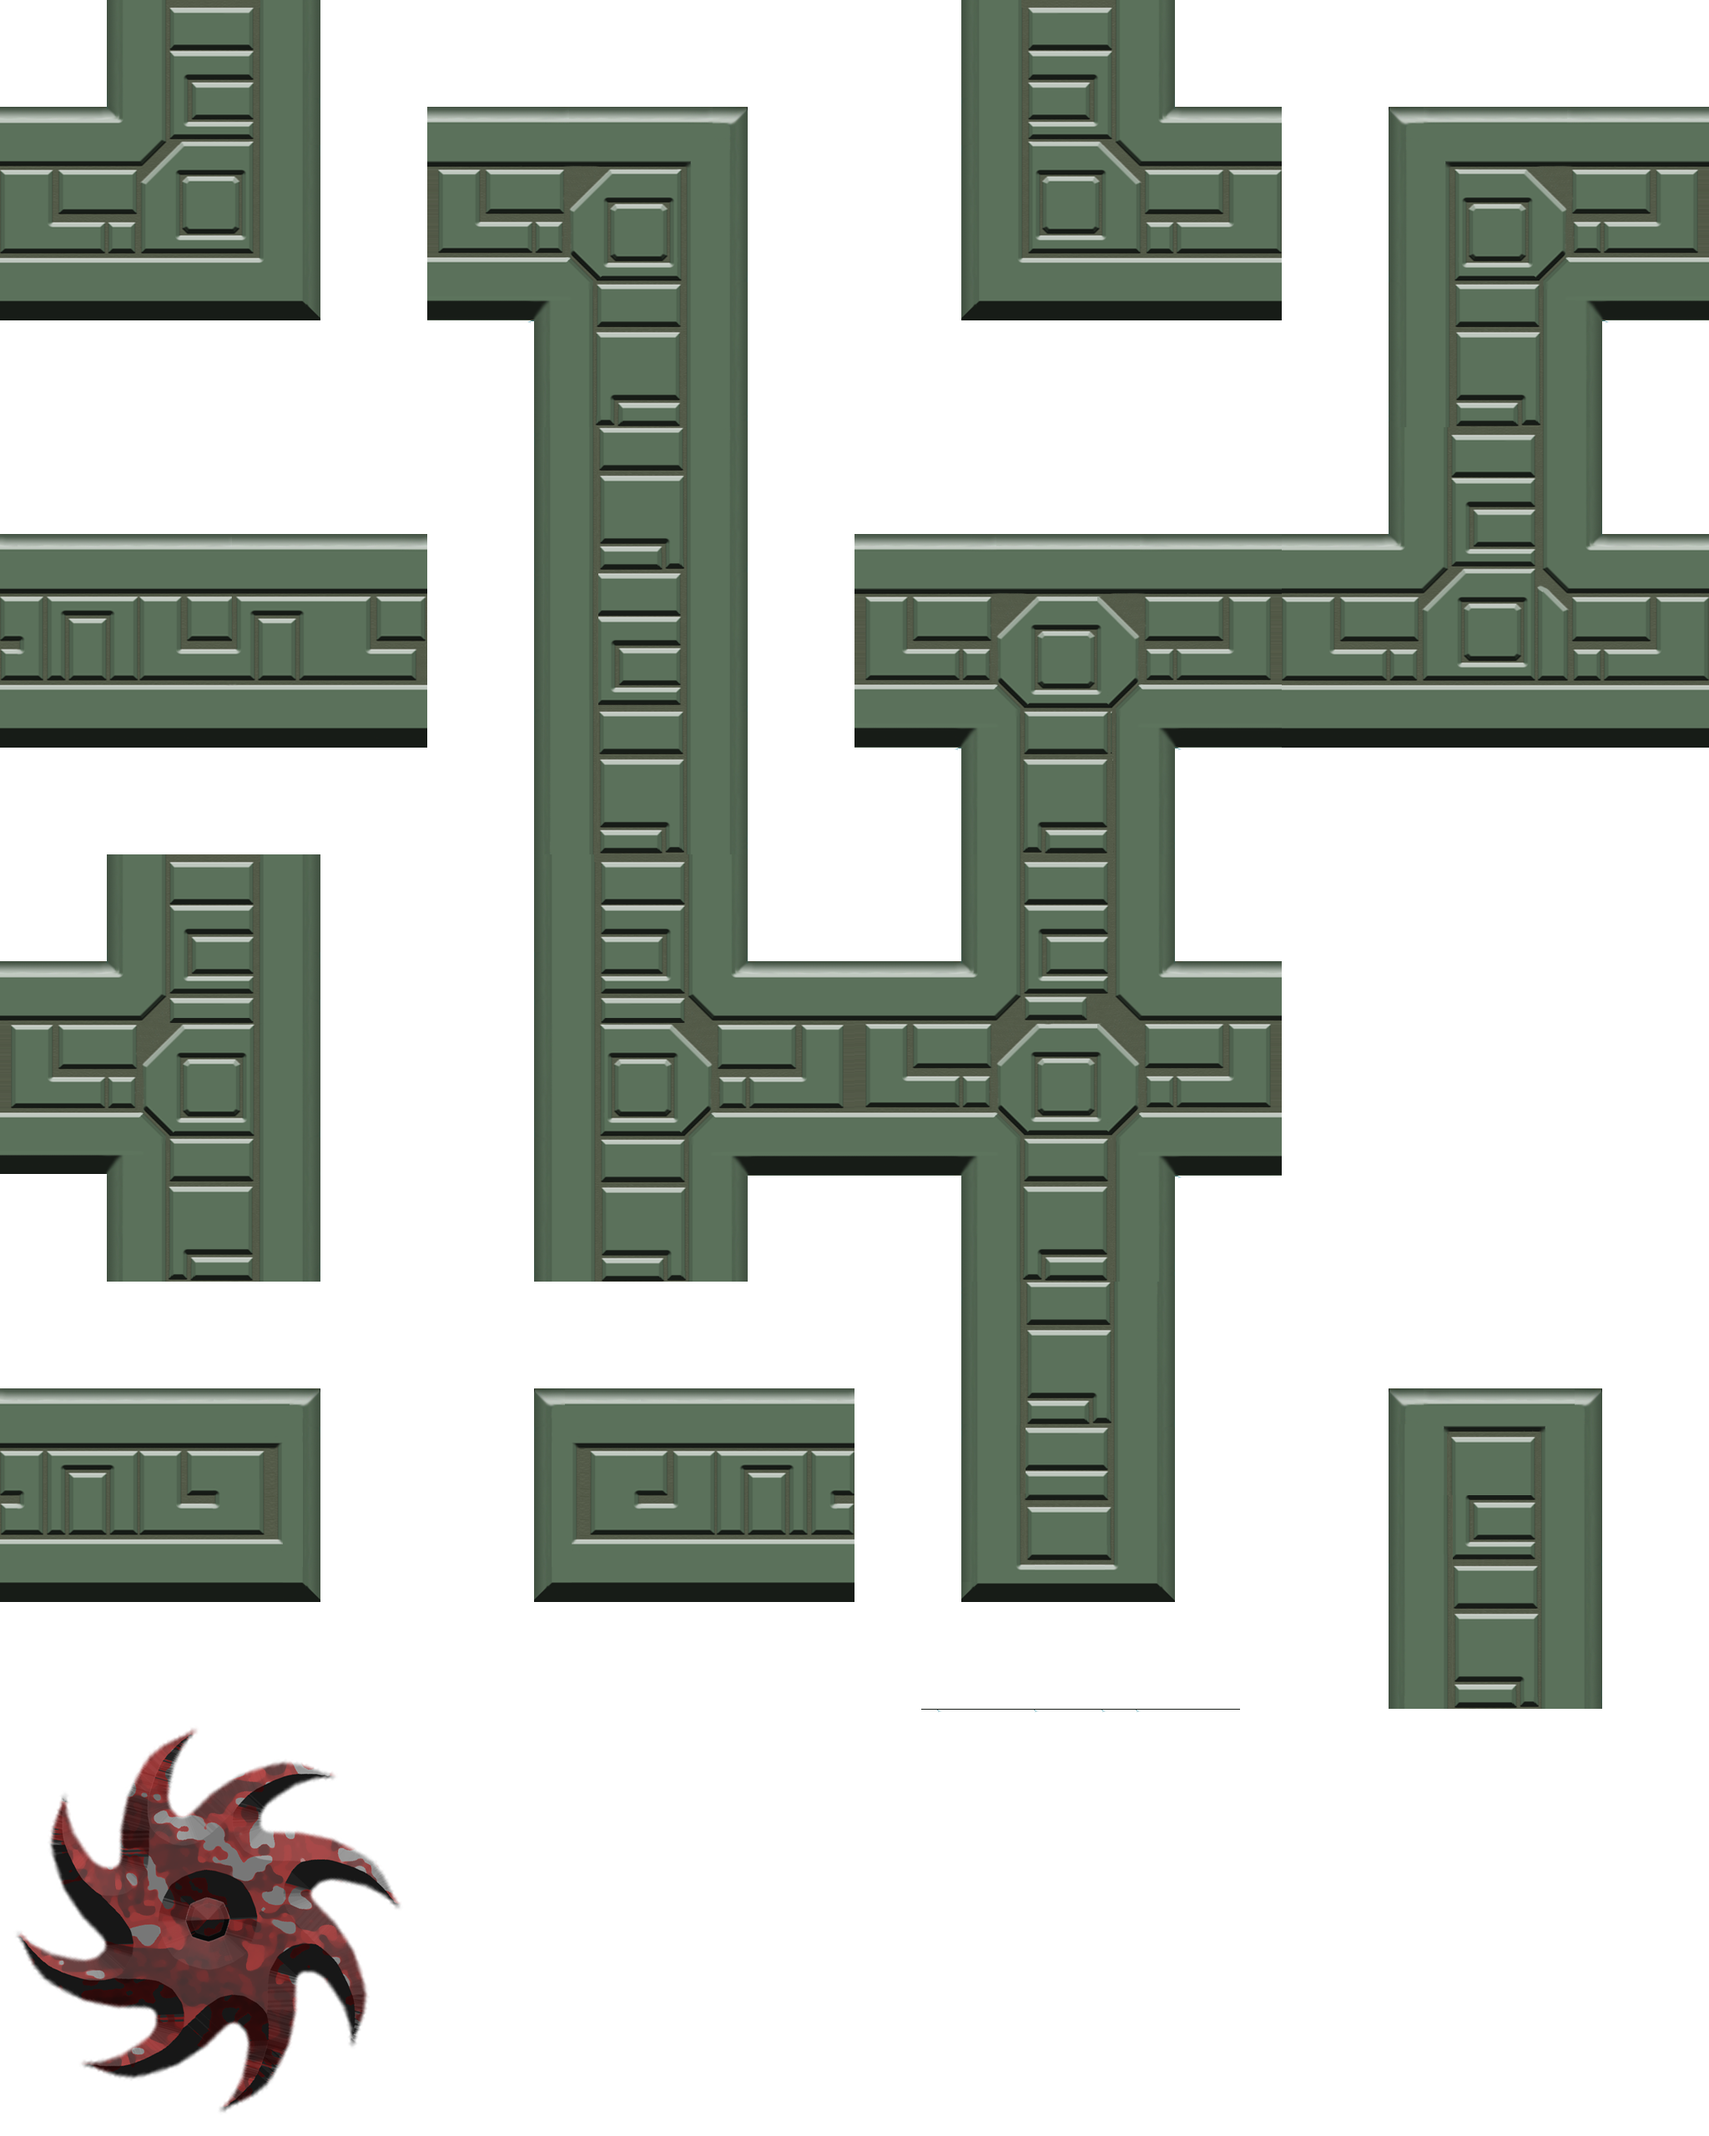
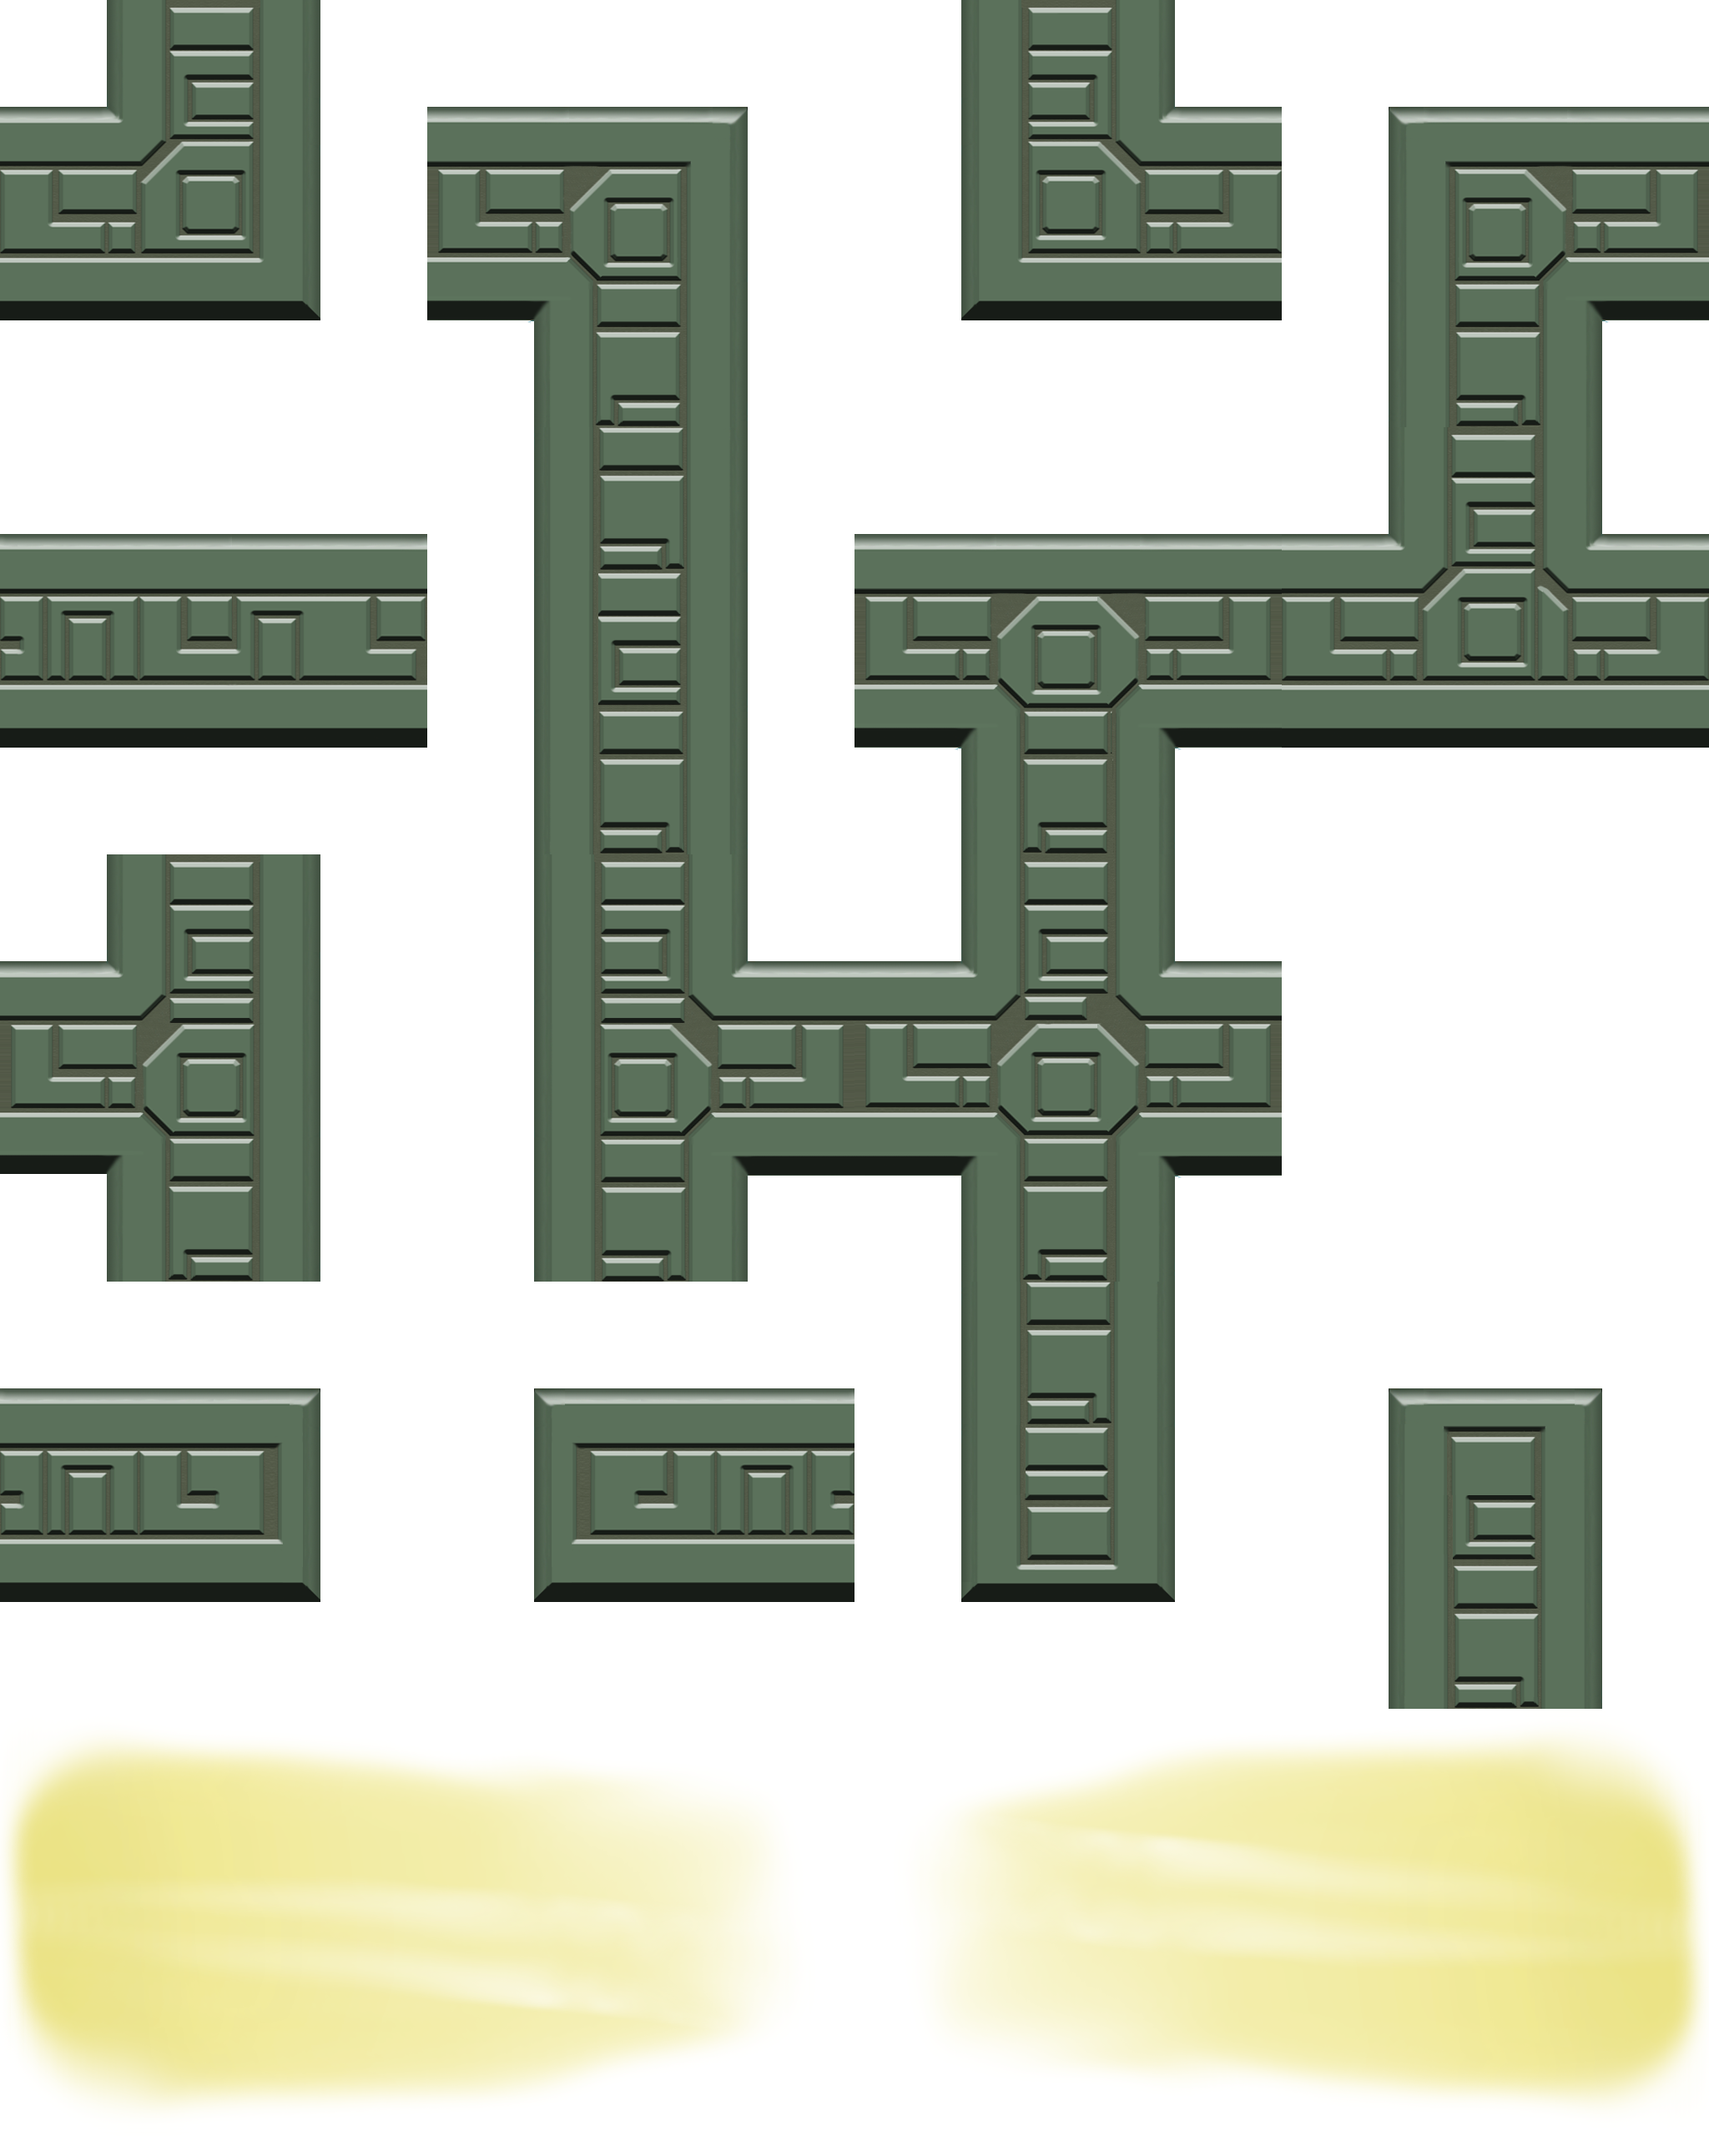
Start/End Tiles
Resized Tiles Spritesheet and added  start/end each 2 tiles
Changed Letters in LevelData document to fit
16 - S
17 - I
18 - N
19 - E

Changed region(s): [[0.0, 0.8125, 0.4375, 1.0], [0.5625, 0.8125, 1.0, 1.0]]

diff --git a/Octopussy/levelData.ts b/Octopussy/levelData.ts
@@ -4,30 +4,31 @@ module Octopussy {
         private data: string[][] = 
         [
             [
-                '####################',
-                '##4------2#4-2V4-2##',
-                '##|BX    3-1B3-1T32#',
-                '##32 4V2X   X   XT|#',
-				'###| 3^^ 4V2 4VR 41#',
-                '###|X  X >V< >+< |##',
-                '###| 42 L^^< 21  |##',
-                '###| ><  XB|   X41##',
-				'###| >+V2 4+VV2 |###',
-				'##41 >++< >+++< |###',
-                '##|TX>++< >+++< |###',
-                '#4^R 3^^< 3^^^1 32##',
-                '#|S E XB|X     X |##',
-                '#3---2 L1 4----R |##',
-                '#####|X  X|TX   X32#',
-                '##4-V< 42T>2 4V2 T|#',
-                '##|T31 >+V+1 T^^-V1#',				
-                '##|X  X>++< X    |##',
-				'##| 42 >^+< 4VV2 |##',
-				'##|B>< DB>1 3^^< 32#',
-				'##3-+1X X|BX  T|XT|#',
-				'####|T UT>-----<E41#',
-				'####3--^-1#####3-1##',
-                '####################'
+                '#####################',
+                '###4------2#4-2V4-2##',
+                '###|BX    3-1B3-1T32#',
+                '###32 4V2X   X   XT|#',
+				'####| 3^^ 4V2 4V2 41#',
+                '####|X  X >V< >+1 |##',
+                '####| 42 L^^< 21  |##',
+                '####| ><  XB|   X41##',
+				'####| >+V2 4+VV2 |###',
+				'###41 >++< >+++< |###',
+                '###|TX>++< >+++< |###',
+                '#4-^R 3^^< 3^^^1 32##',
+                '#|SI X XB|X     X |##',
+                '#3----2 L1 4----R |##',
+                '######|X  X|TX   X32#',
+                '###4-V< 42T>2 4V2 T|#',
+                '###|T31 >+V+1 T^^-V1#',				
+                '###|X  X>++< X    |##',
+				'###| 42 >^+< 4VV2 |##',
+				'###|B>< DB>1 3^^< 32#',
+				'###3-+1X X|BX  T|XT|#',
+				'#####|T UT>-----< L^2',
+				'#####3--^-1#####| NE|',
+                '################3---1',
+				'#####################'
             ]
         ];
 
